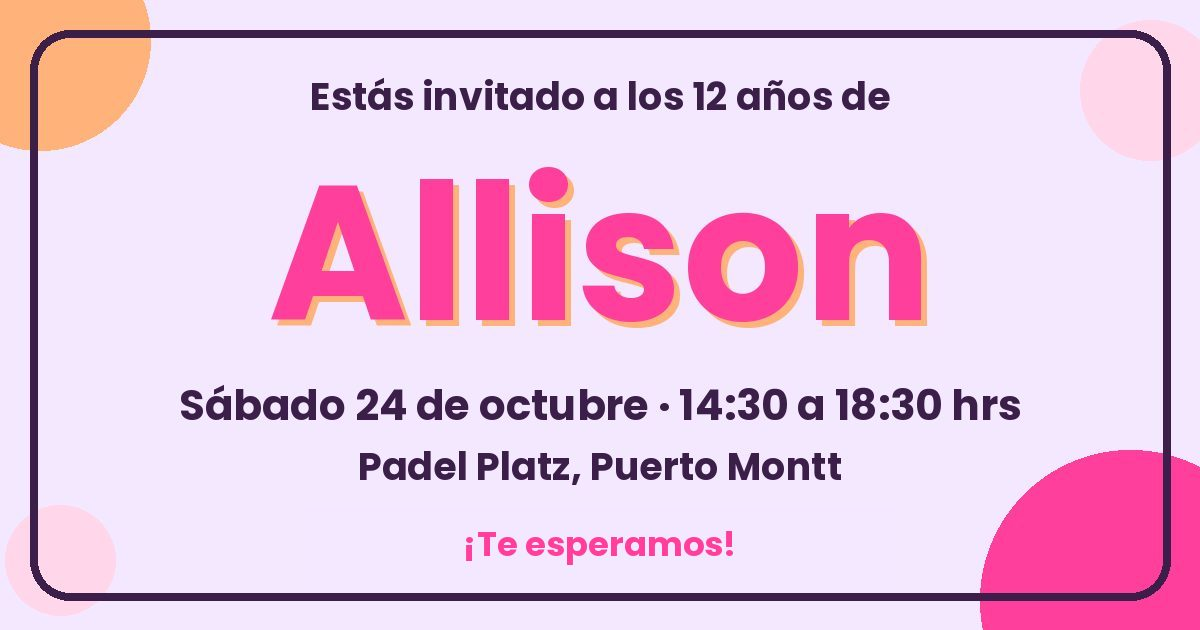
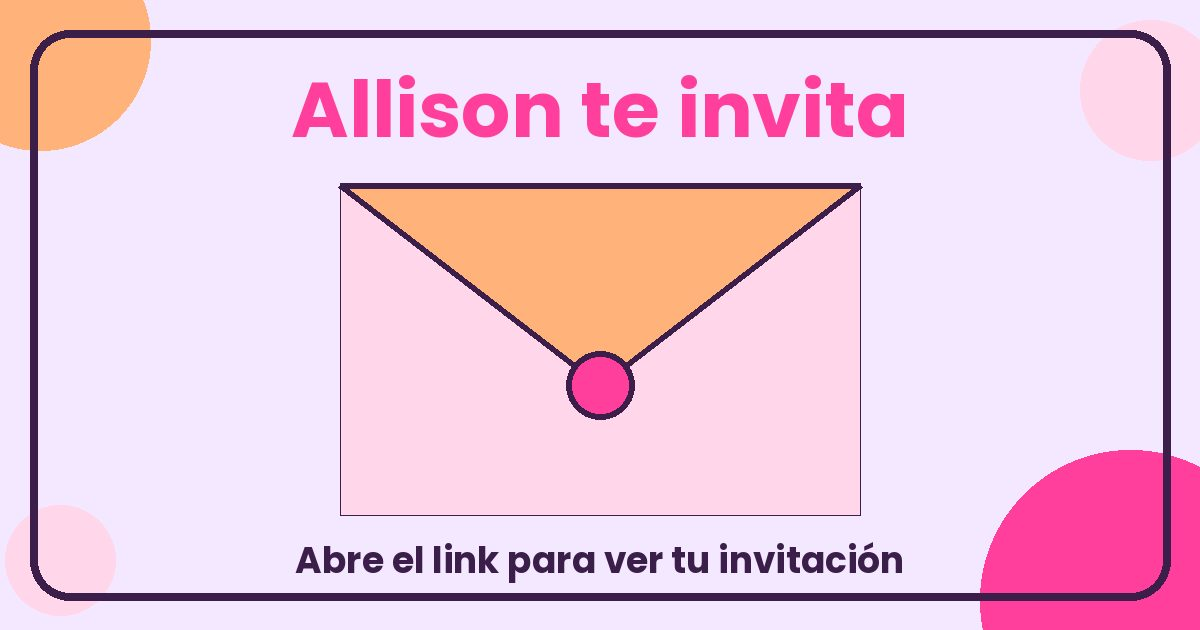
vista previa sin fecha

Changed region(s): [[0.1542, 0.1206, 0.8633, 0.6937], [0.2467, 0.8444, 0.7708, 0.9349], [0.2775, 0.6937, 0.7092, 0.7841]]

diff --git a/allison/index.html b/allison/index.html
@@ -4,8 +4,8 @@
 <meta charset="utf-8">
 <meta name="viewport" content="width=device-width, initial-scale=1, viewport-fit=cover">
 <meta property="og:type" content="website">
-<meta property="og:title" content="Cumpleaños de Allison 🎂">
-<meta property="og:description" content="Estás invitado a los 12 años de Allison. Sábado 24 de octubre, 14:30 a 18:30 hrs.">
+<meta property="og:title" content="Allison te invita 🎂">
+<meta property="og:description" content="Abre el link para ver tu invitación 💌">
 <meta property="og:image" content="https://eimycumilef.github.io/tarjetas-digital/allison/preview.jpg">
 <meta property="og:image:width" content="1200">
 <meta property="og:image:height" content="630">
